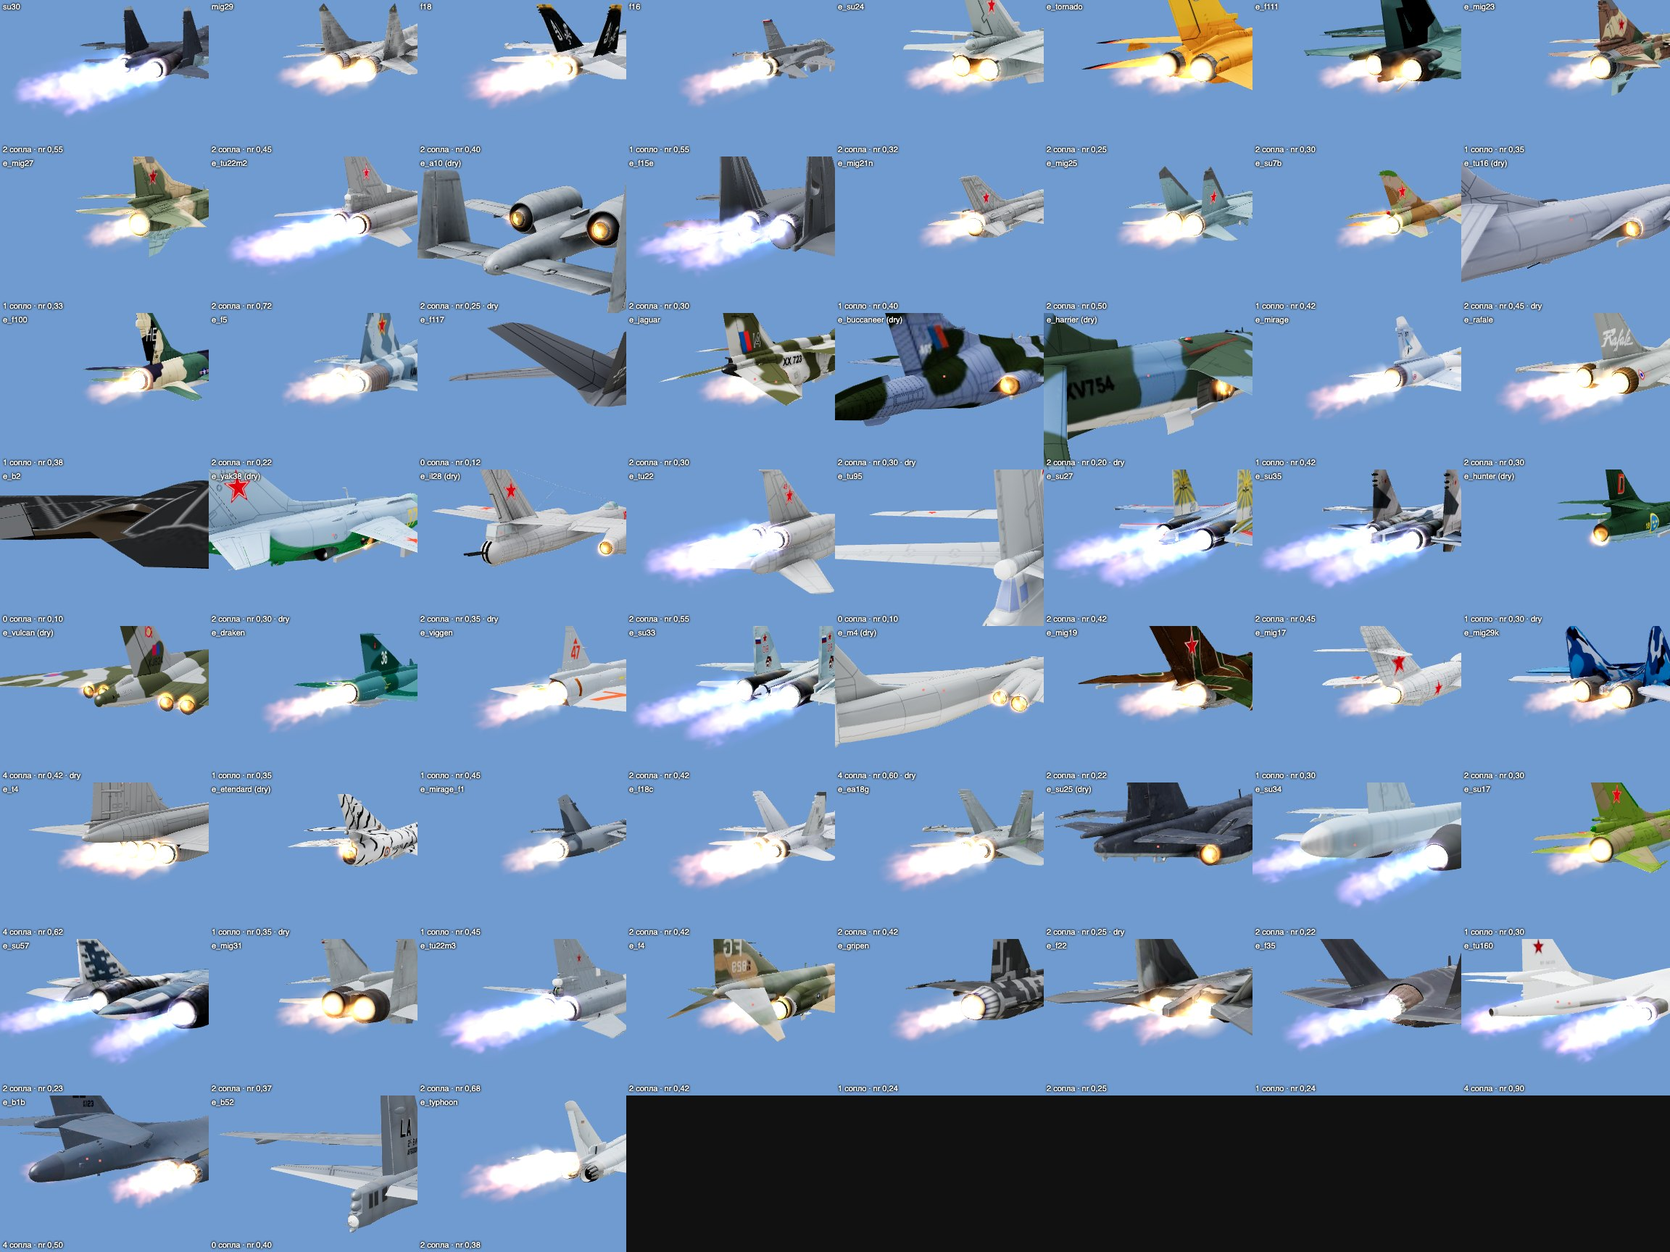
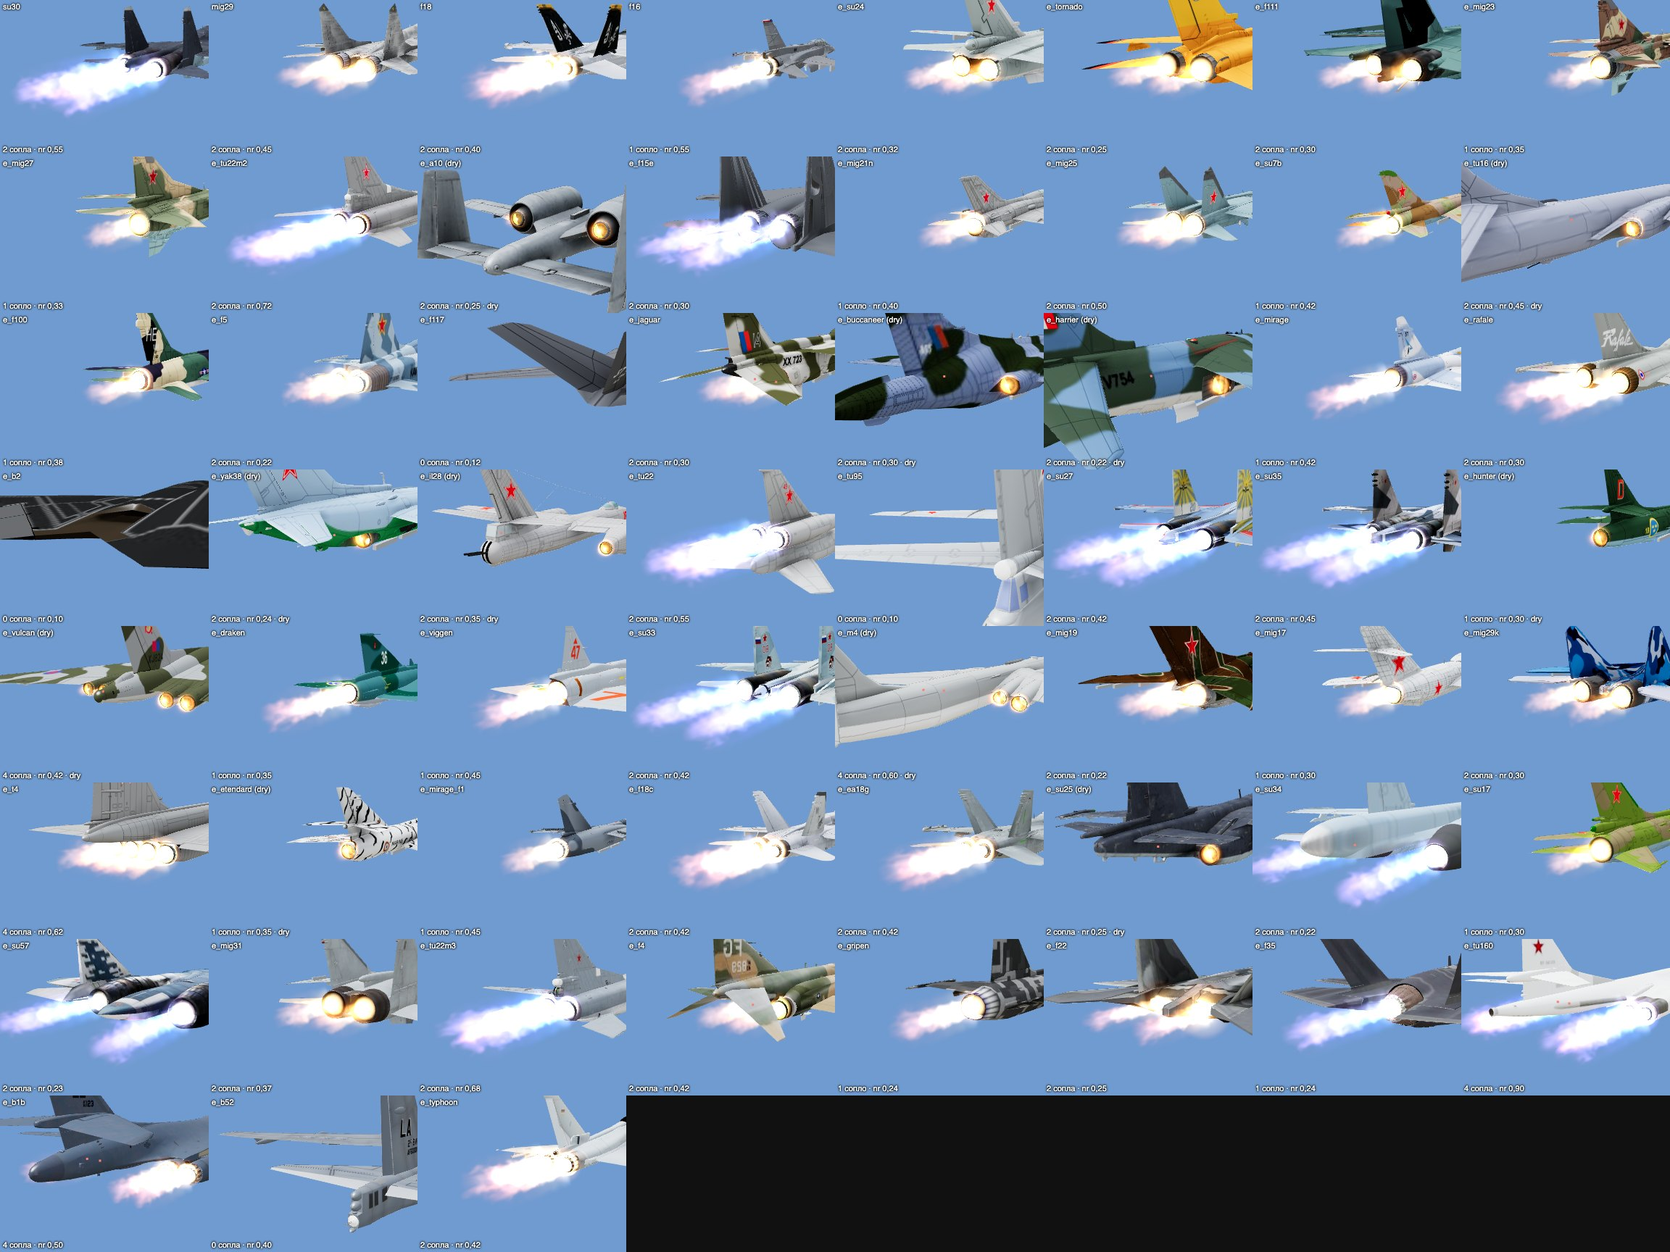
airdef: сопла по замечаниям Mark — Hunter, Étendard, Typhoon, Vulcan, Як-38М, Harrier (models.js META по замеру), стенд jet-view ?st= / ?view=a,b, лист jet-fix6.png

diff --git a/fortuna-bot-web/games/airdef/models.js b/fortuna-bot-web/games/airdef/models.js
@@ -63,7 +63,7 @@ const META = {
   e_buccaneer: { side: 'west', cls: 'strike', lazy: true, stations: mirror([V(-4.96, -1.5, 0.9, 0.3), V(-3.4, -1.52, 0.6, 0.3), V(-2.3, -1.55, 0.1, 0.3), V(-0.45, -2.25, 0.5, 0.15)]),
     nozzles: [V(-1.28, -1.15, 3.5), V(1.28, -1.15, 3.5)], nr: 0.3, pod: V(0.6, -2.3, -1.0), dry: true }, // Buccaneer S.2B («Пэйв Спайк»)
   e_harrier: { side: 'west', cls: 'strike', lazy: true, stations: mirror([V(-2.92, -1.2, 0.75), V(-1.93, -0.95, 0.35), V(-0.3, -1.75, -1.5, 0.15), V(-0.3, -1.75, 0.5, 0.15)]),
-    nozzles: [V(-1.0, -0.9, 0.9), V(1.0, -0.9, 0.9)], nr: 0.2, pod: null, dry: true }, // Harrier GR.3
+    nozzles: [V(-1.0, -0.95, 1.2), V(1.0, -0.95, 1.2)], nr: 0.22, pod: null, dry: true }, // Harrier GR.3 (два задних «горячих» поворотных сопла за крылом, срез z 1,2)
   e_mirage: { side: 'west', cls: 'strike', lazy: true, stations: mirror([V(-2.8, -2.0, 3.1, 0.28), V(-2.08, -1.98, 2.45, 0.28), V(-0.6, -2.05, -0.5, 0.2), V(-0.6, -2.05, 2.0, 0.2)]),
     nozzles: [V(0, -1.11, 7.18)], nr: 0.42, pod: V(0, -2.15, 0.6) }, // Mirage 2000D
   e_rafale: { side: 'west', cls: 'strike', lazy: true, stations: mirror([V(-3.75, -1.85, 3.6), V(-2.6, -1.85, 2.6, 0.3), V(-1.6, -1.85, 1.6, 0.3), V(-0.6, -2.15, 1.0, 0.15)]),
@@ -73,7 +73,7 @@ const META = {
   // ── 2026-10-19, четвёртая партия: manilov.ap (Як-38, Ил-28, Ту-22, Ту-95, Hunter), andertan (Су-27, Су-35), helijah (Super Étendard),
   // Civorsky (Mirage F1), Rhine_Lab_Muelsyse (F/A-18C, EA-18G); бомбардировщики с отсеком — internal, точки — в отсеке
   e_yak38: { side: 'east', cls: 'strike', lazy: true, stations: mirror([V(-2.45, -1.42, 2.0, 0.3), V(-1.95, -1.4, 1.25), V(-0.45, -1.85, 0.3, 0.15), V(-0.45, -1.85, 2.3, 0.15)]),
-    nozzles: [V(-0.6, -1.35, 1.6), V(0.6, -1.35, 1.6)], nr: 0.3, pod: null, dry: true }, // Як-38М (поворотные сопла по бокам)
+    nozzles: [V(-0.45, -1.38, 3.89), V(0.45, -1.38, 3.89)], nr: 0.24, pod: null, dry: true }, // Як-38М (два боковых поворотных сопла за крылом, срез по корпусу Cylinder02: было z 1,6 внутри фюзеляжа)
   e_il28: { side: 'east', cls: 'bomber', lazy: true, internal: true, stations: mirror([V(-0.4, -1.9, -2.5), V(-0.4, -1.9, -1.0), V(-0.4, -1.9, 0.5), V(-0.4, -1.9, 2.0)]),
     nozzles: [V(-3.38, -1.63, 3.3), V(3.38, -1.63, 3.3)], nr: 0.35, pod: null, dry: true }, // Ил-28 (бомбы — в отсеке)
   e_tu22: { side: 'east', cls: 'bomber', lazy: true, internal: true, stations: mirror([V(-0.6, -2.85, -3.0), V(-0.6, -2.85, -1.0), V(-0.6, -2.85, 1.0), V(-0.6, -2.85, 3.0)]),
@@ -85,10 +85,10 @@ const META = {
   e_su35: { side: 'east', cls: 'strike', lazy: true, stations: mirror([V(-5.27, -1.03, 3.7, 0.3), V(-4.14, -1.02, 3.05, 0.3), V(-3.01, -1.03, 2.36, 0.3), V(-0.6, -1.7, 1.0, 0.2)]),
     nozzles: [V(-1.29, -1.39, 9.02), V(1.29, -1.39, 9.02)], nr: 0.45, pod: null }, // Су-35С
   e_hunter: { side: 'west', cls: 'strike', lazy: true, stations: mirror([V(-3.3, -1.42, 0.55, 0.3), V(-2.75, -1.44, -0.45), V(-0.45, -1.5, -0.5, 0.15), V(-0.45, -1.5, 1.5, 0.15)]),
-    nozzles: [V(0, -0.81, 6.76)], nr: 0.3, pod: null, dry: true }, // Hunter FGA.9
+    nozzles: [V(0, -0.61, 6.74)], nr: 0.3, pod: null, dry: true }, // Hunter FGA.9 (сопло по срезу: y −0,81 → −0,61)
   // ── 2026-10-21, пятая партия: manilov.ap (Vulcan, Draken, Viggen — без оружия в моделях; подвески по виду снизу / сбоку planes-view.html?ortho=1) ──
   e_vulcan: { side: 'west', cls: 'bomber', lazy: true, internal: true, stations: mirror([V(-0.5, -2.5, -3.6), V(-0.5, -2.5, -1.4), V(-0.5, -2.5, 0.8), V(-0.5, -2.5, 3.0)]),
-    nozzles: [V(-3.47, -2.36, 11.87), V(-2.22, -2.36, 11.87), V(2.22, -2.36, 11.87), V(3.47, -2.36, 11.87)], nr: 0.42, pod: null, dry: true }, // Vulcan B.2 (бомбы — в отсеке; четыре «Олимпа» в корне крыла, без форсажа)
+    nozzles: [V(-3.47, -2.6, 11.85), V(-2.22, -2.6, 11.85), V(2.22, -2.6, 11.85), V(3.47, -2.6, 11.85)], nr: 0.42, pod: null, dry: true }, // Vulcan B.2 (сопла по срезу: y −2,36 → −2,6) (бомбы — в отсеке; четыре «Олимпа» в корне крыла, без форсажа)
   e_draken: { side: 'west', cls: 'strike', lazy: true, stations: mirror([V(-3.4, -1.36, 4.0, 0.3), V(-2.6, -1.38, 3.3, 0.3), V(-1.6, -1.5, 1.8, 0.3), V(-0.5, -1.47, 0.0, 0.15)]),
     nozzles: [V(0, -0.56, 7.67)], nr: 0.35, pod: null }, // Saab 35 Draken (J35F)
   e_viggen: { side: 'west', cls: 'strike', lazy: true, stations: mirror([V(-1.8, -1.98, 3.2, 0.3), V(-4.11, -1.78, 4.7), V(-2.9, -1.82, 4.4), V(-1.1, -1.95, 2.4, 0.2)]), // подвески: внутренние под крылом (L1/R1) и внешние (L2/R2) — на пилонах автора (балки 3,9 м и 2,1 м), бока фюзеляжа (Ф) — пилон дорисован
@@ -107,7 +107,7 @@ const META = {
   e_t4: { side: 'east', cls: 'strike', lazy: true, internal: true, stations: mirror([V(-0.4, -1.5, -4.0), V(-0.4, -1.5, -1.5), V(-0.4, -1.5, 1.0), V(-0.4, -1.5, 3.5)]),
     nozzles: [V(-2.04, -3.17, 16.1), V(-0.68, -3.17, 16.1), V(0.68, -3.17, 16.1), V(2.04, -3.17, 16.1)], nr: 0.62, pod: null }, // Т-4 «Сотка» (бомбы — в отсеке; четыре РД-36-41 в пакете под фюзеляжем)
   e_etendard: { side: 'west', cls: 'strike', lazy: true, stations: mirror([V(-2.64, -1.49, 1.85, 0.3), V(-1.92, -1.48, 1.23, 0.3), V(-0.4, -1.6, 0.0, 0.17), V(-0.4, -1.6, 1.8, 0.17)]),
-    nozzles: [V(0, -0.57, 6.3)], nr: 0.35, pod: V(0.4, -1.7, -1.0), dry: true }, // Super Étendard (ATLIS под фюзеляжем)
+    nozzles: [V(0, -0.82, 6.2)], nr: 0.35, pod: V(0.4, -1.7, -1.0), dry: true }, // Super Étendard (ATLIS под фюзеляжем; сопло по срезу: y −0,57 → −0,82, z 6,3 → 6,2)
   e_mirage_f1: { side: 'west', cls: 'strike', lazy: true, stations: mirror([V(-2.41, -1.13, 1.9, 0.28), V(-1.75, -1.07, 1.55, 0.28), V(-0.45, -1.9, 0.3, 0.15), V(-0.45, -1.9, 2.3, 0.15)]),
     nozzles: [V(0, -1.03, 7.63)], nr: 0.45, pod: null, camo: { scheme: 'fr', size: 2.6 } }, // Mirage F1
   e_f18c: { side: 'west', cls: 'strike', lazy: true, stations: mirror([V(-4.3, -1.25, 2.7, 0.3), V(-3.42, -1.54, 1.36), V(-2.24, -1.47, 1.16), V(-0.6, -1.6, 1.0, 0.15)]),
@@ -165,7 +165,7 @@ const META = {
   e_tu160: { side: 'east', cls: 'carrier', only: true, lazy: true, internal: true, stations: mirror([V(-0.7, -3.8, -4.0), V(-0.7, -3.8, -1.5), V(-0.7, -3.8, 1.0), V(-0.7, -3.8, 3.5)]), nozzles: [V(-5.75, -4.31, 11.1), V(-3.97, -4.31, 11.1), V(3.97, -4.31, 11.1), V(5.75, -4.31, 11.1)], nr: 0.9 }, // Ту-160 — KOG_THORNS (с 2026-10-19 и в «Авиации»: точки — в отсеках); носитель «Мульти-волны»
   e_b1b: { side: 'west', cls: 'carrier', only: true, lazy: true, internal: true, stations: mirror([V(-0.6, -2.5, -5.0), V(-0.6, -2.5, -2.5), V(-0.6, -2.5, 0.0), V(-0.6, -2.5, 2.5)]), nozzles: [V(-4.3, -3.1, 11.5), V(-2.95, -3.1, 11.5), V(2.95, -3.1, 11.5), V(4.3, -3.1, 11.5)], nr: 0.5 }, // B-1B — Muhamad Mirza Arrafi; носитель «Мульти-волны»
   e_b52: { side: 'west', cls: 'carrier', only: true, lazy: true, internal: true, stations: mirror([V(-0.6, -5.2, -3.0), V(-0.6, -5.2, -1.0), V(-0.6, -5.2, 1.0), V(-0.6, -5.2, 3.0)]), nozzles: [], nr: 0.4 }, // B-52H — bohmerang; носитель «Мульти-волны» (без форсажа — пламени нет)
-  e_typhoon: { side: 'west', cls: 'carrier', only: true, lazy: true, stations: mirror([V(-3.88, -1.93, 3.0, 0.3), V(-2.77, -1.91, 2.24, 0.3), V(-1.94, -1.85, 1.74, 0.3), V(-0.6, -2.1, 1.0, 0.15)]), nozzles: [V(-0.54, -0.63, 8.6), V(0.54, -0.63, 8.6)], nr: 0.38 }, // Eurofighter Typhoon — andertan; носитель Storm Shadow
+  e_typhoon: { side: 'west', cls: 'carrier', only: true, lazy: true, stations: mirror([V(-3.88, -1.93, 3.0, 0.3), V(-2.77, -1.91, 2.24, 0.3), V(-1.94, -1.85, 1.74, 0.3), V(-0.6, -2.1, 1.0, 0.15)]), nozzles: [V(-0.54, -1.46, 6.68), V(0.54, -1.46, 6.68)], nr: 0.42 }, // Eurofighter Typhoon — andertan; носитель Storm Shadow
   w_tbmdec: { lazy: true, stations: [] }, // ложная цель «Искандера» — головная часть его ракеты
   w_kinzhal: { weapon: 'kinzhal', lazy: true, stations: [] }, // «Кинжал» — ракета 9М723 с пусковой «Искандера» (42manako), 7,2 м, светло-серая
   w_slam: { weapon: 'slam', lazy: true, stations: [] }, // AGM-84E SLAM — по UGM-84 Harpoon (FeriseCAT)

diff --git a/fortuna-bot-web/tools/airdef-fx/jet-view.html b/fortuna-bot-web/tools/airdef-fx/jet-view.html
@@ -8,7 +8,7 @@
      ?p=e_su27 (или список через запятую — лист на самолёт): столбцы — кадры «малый газ», «максимал», «розжиг форсажа 0,15 с», «0,4 с», «полный форсаж»,
        строки — день и сумерки × виды: сбоку, сзади, ¾ сзади, крупно у сопла. Красные точки — сопла из META (?dots=0 — убрать).
      ?p=e_su27&thr=1&ab=1&t=0.4 — один кадр: газ, форсаж, t — секунд после включения форсажа (до этого 3 с на том же газе без форсажа).
-     ?view=side|rear|q34|close — только этот вид; ?sky=day|dusk — только это небо; ?cw=&ch= — размер кадра.
+     ?view=side,close — только эти виды (side | rear | q34 | close); ?st=1,4 — только эти кадры; ?sky=day|dusk — только это небо; ?cw=&ch= — размер кадра.
      ?all=1 — лист «все самолёты на форсаже, ¾ сзади, крупно у сопел» (подписи: ключ, nr, число сопел; ?cols=8; ?dots=1 по умолчанию — точки сопел).
      ?cmp=e_su27,f16 — «было / стало»: прежний attachFlames (units-render.js) и jetflame.js, форсаж, четыре вида.
      Драйвер снимков — tools/airdef-fx/jet-shots.js (window.renderSheet(i), window.sheets, window.names). -->
@@ -29,9 +29,10 @@ const FOV = 28, DOTS = Q.has('dots') ? Q.get('dots') !== '0' : MODE === 'all';
 const fmt = (x, n = 2) => (+x).toFixed(n).replace('.', ',');
 
 // ── кадры и виды ──
-const STATES = Q.has('thr') || Q.has('ab') ? [{ n: `газ ${Q.get('thr') || 1}${Q.get('ab') === '1' ? ' · форсаж ' + (Q.get('t') || 2.5) + ' с' : ''}`, thr: +(Q.get('thr') || 1), ab: Q.get('ab') === '1', t: +(Q.get('t') || 2.5) }] : [
+const STATES0 = Q.has('thr') || Q.has('ab') ? [{ n: `газ ${Q.get('thr') || 1}${Q.get('ab') === '1' ? ' · форсаж ' + (Q.get('t') || 2.5) + ' с' : ''}`, thr: +(Q.get('thr') || 1), ab: Q.get('ab') === '1', t: +(Q.get('t') || 2.5) }] : [
   { n: 'малый газ', thr: 0.4, ab: false, t: 0 }, { n: 'максимал', thr: 1, ab: false, t: 0 }, { n: 'розжиг 0,15 с', thr: 1, ab: true, t: 0.15 }, { n: 'розжиг 0,4 с', thr: 1, ab: true, t: 0.4 }, { n: 'полный форсаж', thr: 1, ab: true, t: 2.5 }];
-const VIEWS = [['side', 'сбоку'], ['rear', 'сзади'], ['q34', '¾ сзади'], ['close', 'крупно']].filter(([k]) => !Q.get('view') || Q.get('view') === k);
+const STATES = Q.get('st') ? Q.get('st').split(',').map((k) => STATES0[+k]) : STATES0;   // ?st=1,4 — только эти кадры (0 малый газ, 1 максимал, 4 полный форсаж)
+const VIEWS = [['side', 'сбоку'], ['rear', 'сзади'], ['q34', '¾ сзади'], ['close', 'крупно']].filter(([k]) => !Q.get('view') || Q.get('view').split(',').includes(k));
 const SKIES = ['day', 'dusk'].filter((k) => !Q.get('sky') || Q.get('sky') === k);
 const CW = +(Q.get('cw') || (MODE === 'all' ? 288 : 300)), CH = +(Q.get('ch') || (MODE === 'all' ? 216 : 210));
 const COLS = MODE === 'all' ? +(Q.get('cols') || 8) : MODE === 'cmp' ? VIEWS.length : STATES.length;

diff --git a/fortuna-bot-web/AIRDEF_STATE.md b/fortuna-bot-web/AIRDEF_STATE.md
@@ -224,3 +224,4 @@ Mark работает с **Opus на высоком усилии** — он ру
 - 2026-10-21 · Sonnet (исполнитель) · английский, этап 1, часть «ui» (по GLOSSARY.md; Mark: карты и цели — по смыслу, советская техника — латиницей): menu.js, main.js, hints.js, event.js, research.js, icons.js, progress-net.js, photo.js, layout.js, director.js — ≈ 700 строк в tr() / trIf(), словарь lang/en-ui.js (747 ключей: меню, исследования, событие, подсказки клавиш, съёмка, итоги боя, статичный airdef.html, режимы / эпохи / погода / причины «нельзя» / сообщения сервера); progress-net.js: trMsg / trLine — сообщения с числами по образцу; icons.js: значки кнопок распознают и английские «…» / "…" («COUNTERMEASURES», "FIRE", «MAP»…); main.js: окна общих модулей (orient-warn.js) переводит наблюдатель за body; названия из arsenal.js / progress.js — через trIf (их словарь — этап 2); проверка: scan.js — 0 не обёрнутых, `--miss` — 0; ui-test (в т. ч. на ?lang=en), event-test, progress-server-test — ок; снимки — tools/i18n/ui-shots.js → tools/i18n/shots/ui-*.png (ПК 1280×720 и телефон 844×390, не в git)
 - 2026-10-21 · Sonnet (исполнитель) · пламя двигателей, этап B — запечённое пламя встроено: units-render.attachFlames теперь делает makeJetFlame (API update(thr, ab) прежний, dt по часам ≤ 0,1 с; прежний конус — attachFlamesOld для стенда «было / стало»), setJetLayer зовётся в createFx.setLayers вместе с setFlameLayer; air.js и main.js не тронуты; jetflame: слабые ссылки на живые факелы (жёсткие держали модели налёта — ui-test падал по памяти); META сопел по срезу модели: A-10 (y 1,1 → 0,32), Ту-22М2 (позиция и nr 0,72), F-4 (z 3,45 → 5,6, nr 0,42), nr: F/A-18 0,4, Hunter 0,3, Су-25 0,25, Ту-22М3 0,68, Ту-160 0,9, Т-4 0,62 (часть правок попала в чужой коммит 92588c5); Як-38, Harrier, Vulcan, B-1B, Ту-22 — по замеру на месте; проверка в игре tools/airdef-fx/jet-game-shots.js (свой самолёт high / medium с форсажем, оборона, «Съёмка», телефон 844×390 — ошибок нет, к/с 57–60 как у прежнего пламени); ui-test, sim-test, cm-test — ок; event-test: 3 проверки русской разметки экрана события падают и без моих правок (перевод в работе)
 - 2026-10-21 · Sonnet (исполнитель) · английский, этап 2 — справка: lang/data.js (localizeData() при импорте подменяет видимые поля AG / SAM / PLANES / SPECS / HSPECS / LOADOUTS / ERAS / AG_KIND / SAM_TYPE / ROLE_NAME / CARRIERS / MODES, локализует и подписи ТТХ, метки СПО; localizeTree(TREE, BRANCHES[, SIDE_NAME]) — страховка для дерева; enNum() собирает «≈ 500 кг» → «≈ 500 kg»), словарь lang/en-data.js (≈ 380 строк: названия латиницей по GLOSSARY, подписи и значения ТТХ, 97 описаний оружия и комплексов, названия подвесок), руководство guide.js целиком в tr() (219 фраз, словарь lang/en-guide.js, по-русски вывод тот же, сверено с прежним), tools/i18n/data-check.js (en / --late / --ru: кириллицы в данных и руководстве нет); lang/en.js собирает data, guide, ui, battle (ui и battle главнее); main.js — подключает главная сессия: `import './lang/data.js?v=…';` самым первым и `localizeTree(TREE, BRANCHES);` после импортов; scan guide.js — 0 / 0, data-check, progress-server-test, sim-test, ui-test — ок
+- 2026-10-21 · Sonnet (исполнитель) · сопла по замечаниям Mark (models.js META, замер по ортографическим видам и именам частей модели): Hunter y −0,81 → −0,61; Étendard y −0,57 → −0,82, z 6,3 → 6,2; Typhoon (±0,54, −0,63, 8,6) → (±0,54, −1,46, 6,68), nr 0,38 → 0,42 (срез был на 1,9 м позади модели); Vulcan y −2,36 → −2,6; Як-38М (±0,6, −1,35, 1,6) → (±0,45, −1,38, 3,89), nr 0,24 (два боковых поворотных сопла за крылом — торец корпуса Cylinder02); Harrier GR.3 (±1,0, −0,9, 0,9) → (±1,0, −0,95, 1,2), nr 0,22 (два задних горячих сопла); стенд jet-view: ?st= и ?view=a,b; лист shots/jet-fix6.png; ui-test (max-old-space-size=8192), cm-test — ок
